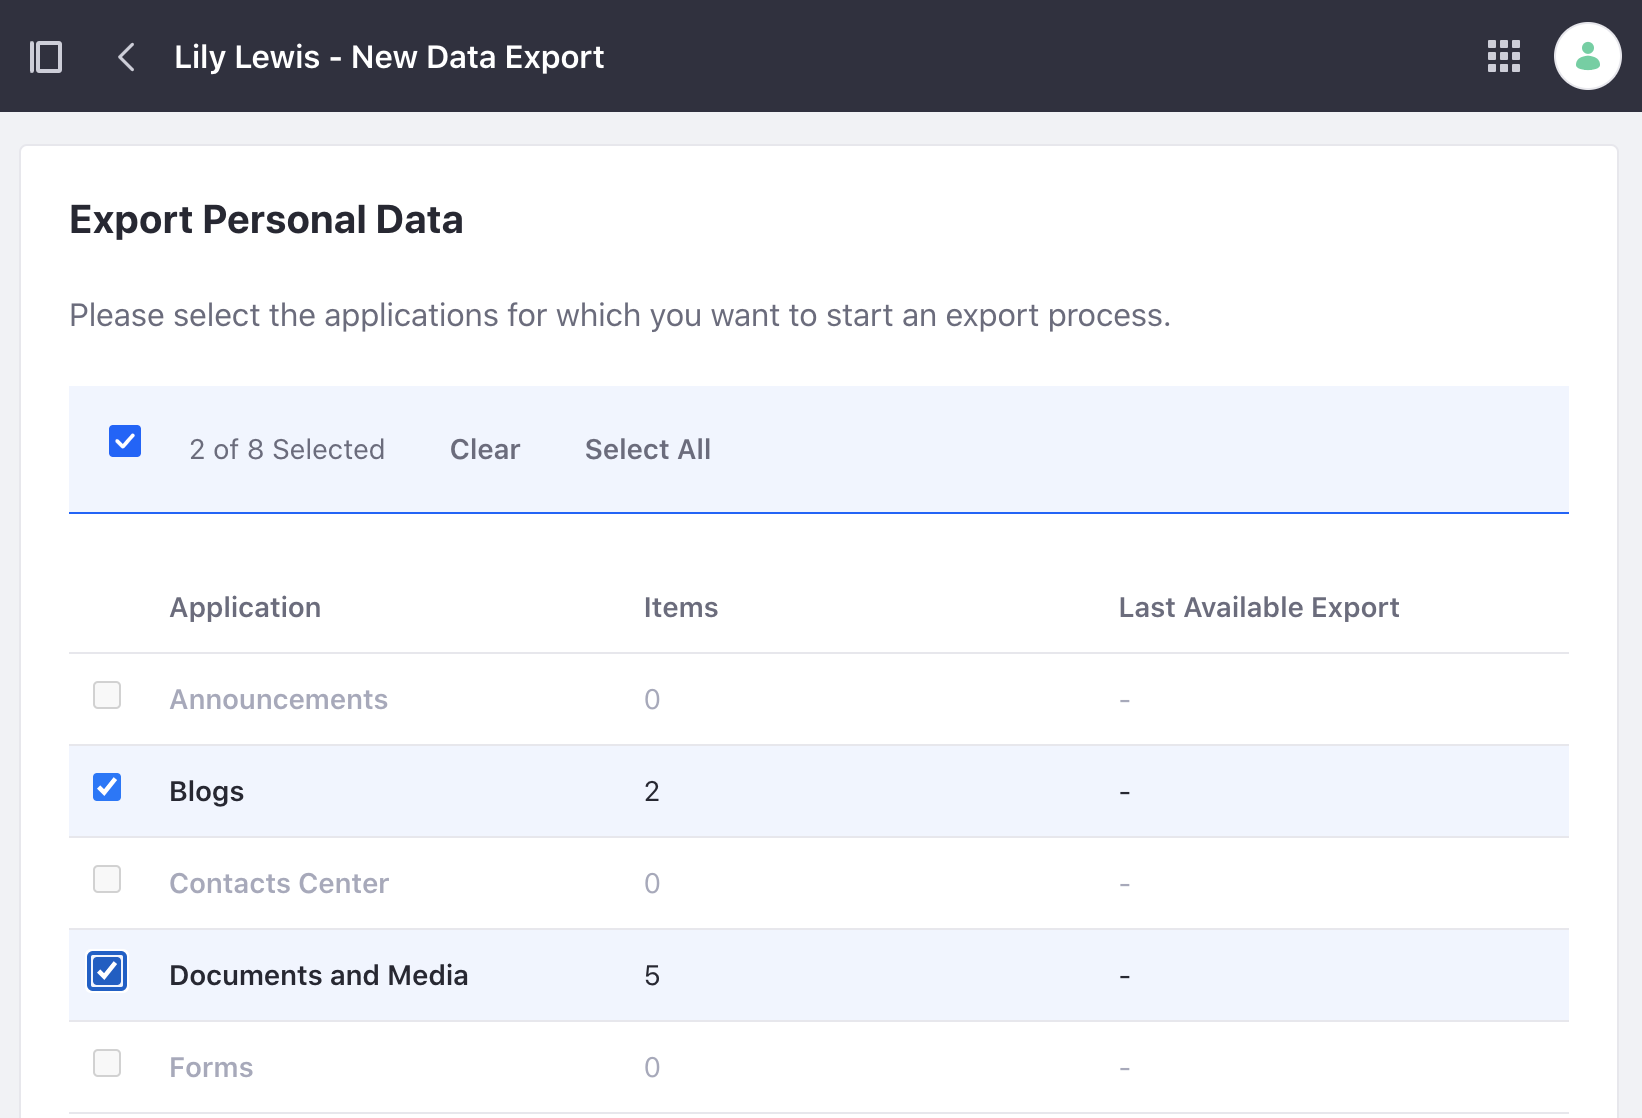
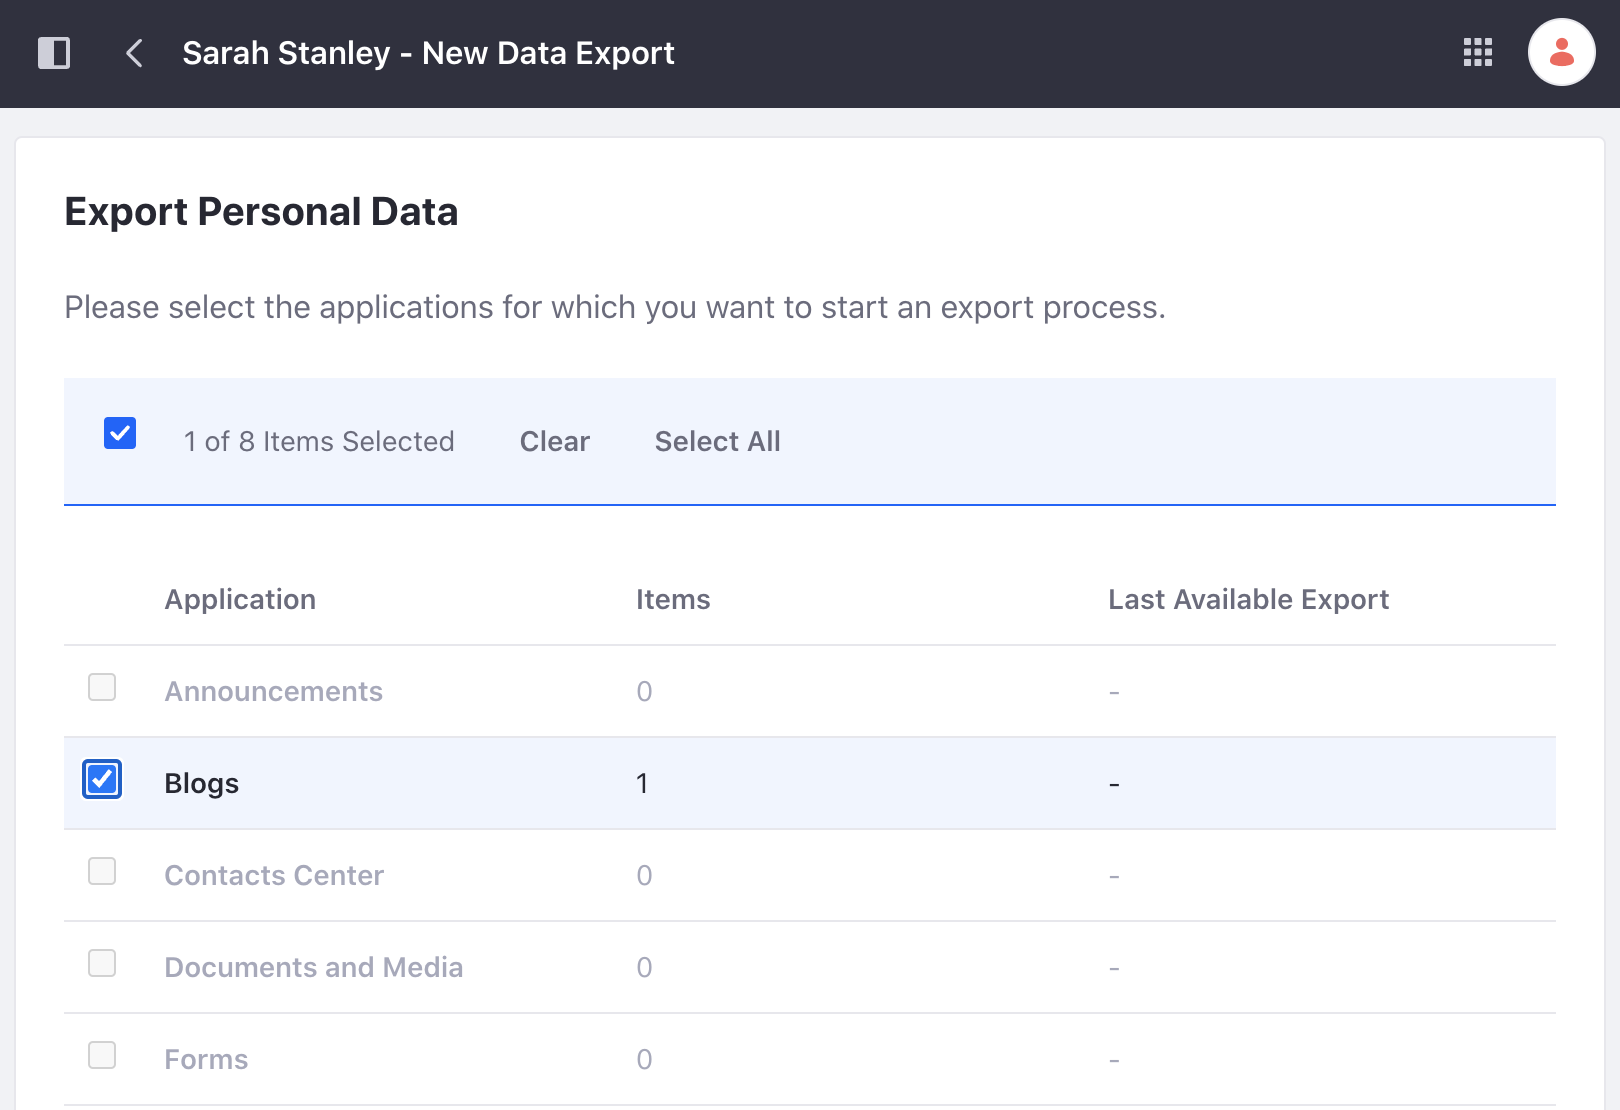
LRDOCS-11655 working with personal data

diff --git a/docs/courses/latest/en/liferay-administrator/user-data/understanding-gdpr.md b/docs/courses/latest/en/liferay-administrator/user-data/understanding-gdpr.md
@@ -5,33 +5,64 @@ uuid: 1793412f-135e-4ee3-bb27-a46e3383ff7c
 
 The Liferay user data tools can manage and delete personal user data. Though these tools are aimed at helping you with GDPR requirements, they do not guarantee compliance. See [managing user data](https://learn.liferay.com/dxp/latest/en/users-and-permissions/managing-user-data.html) to learn more.
 
+## Working with Personal Data
+
+Data such as blog posts, uploaded documents, message board replies, are some examples of content that may contain personal data of your users. Follow the steps below to see how this happens.
+
+1. Change the user authentication setting. Note, this is only for our learning and testing purposes.
+
+   * Navigate to _Global Menu_ (![Global Menu](../../images/icon-applications-menu.png)) &rarr; _Control Panel_ &rarr; _Instance Settings_.
+   * Under Platform, click _User Authentication_.
+   * Uncheck the box next to require strangers to verify their email address.
+   * Click _Save_.
+
+1. Give Sarah the administrator role.
+
+   * Navigate to _Global Menu_ (![Global Menu](../../images/icon-applications-menu.png)) &rarr; _Control Panel_ &rarr; _Users and Organizations_. Click _Sarah Stanley_.
+   * In the left navigation, click _Roles_.
+   * Next to Regular Roles, click _Select_.
+   * In the new window, click _Choose_ next to Administrator.
+   * Scroll down to the bottom and click _Save_.
+
+1. Login as Sarah Stanley and create a blog post.
+
+   * Click the user profile image in the top right and click _Sign Out_.
+   * Click _Sign In_ at the top right.
+   * Sign in with `sarah@almightysyrup.com` as the email address and `learn` as the password.
+   * Open the _Product Menu_ (![Product Menu](../../images/icon-product-menu.png)). Click _Blogs_ under _Content & Data_.
+   * Click _Add_ (![Add icon](../../images/icon-add.png)).
+   * Add the following entry. 
+     * Title: Foo
+     * Content: Bar 
+   * Click _Publish_.
+
+1. Log back in as the main administrator (i.e. Kyle Klein).
+
 ## Exporting User Data
 
-<!-- I'm not sure how we can do this exercise without the data already in the database. Do you have a step somewhere where this data got imported? -Rich -->
-
-You may need to export personal user data. For example, a former employee of Delectable Bonsai is requesting a copy of all her personal data. Follow the steps to export user data.
+You may need to export personal user data. For example, Sarah Stanley is requesting a copy of all her personal data. Follow the steps to export her user data.
 
 1. Navigate to _Global Menu_ (![Global Menu](../../images/icon-applications-menu.png)) &rarr; _Control Panel_ &rarr; _Users and Organizations_.
 
-2. Click _Options_ (![Options icon](../../images/icon-actions.png)) of the user to export data. Click _Export Personal Data_.
+1. Click _Options_ (![Options icon](../../images/icon-actions.png)) for Sarah Stanley. Click _Export Personal Data_.
 
-3. In the next page, click _Add_ (![Add icon](../../images/icon-add.png)) to start a new export process.
+1. In the next page, click _Add_ (![Add icon](../../images/icon-add.png)) to start a new export process.
 
-4. In the next page, select all items you wish to export. For example, select all personal data from blogs or documents and media. Click _Export_ after making your selection.
+1. In the next page, select all items you wish to export. For example, select all personal data from blogs. Click _Export_ after making your selection.
 
    ![Select the items you wish to export.](./understanding-gdpr/images/01.png)
 
-5. The next page shows an export process for each category of personal data. To download, click _Options_ (![Options icon](../../images/icon-actions.png)) and select _Download_. The personal user data is downloaded to your machine.
+1. The next page shows an export process for each category of personal data. To download, click _Options_ (![Options icon](../../images/icon-actions.png)) and select _Download_. The personal user data is downloaded to your machine.
 
 ## Anonymizing User Data
 
-Choose to anonymize personal data if you have a want to keep existing content. For example, you want to keep blog posts of former employees without their personal data. Follow the steps to anonymize data.
+Choose to anonymize personal data if you want to keep existing content on your site. For example, you want to keep blog posts of former employees without their personal data. Follow the steps to anonymize data.
 
 1. Navigate to _Global Menu_ (![Global Menu](../../images/icon-applications-menu.png)) &rarr; _Control Panel_ &rarr; _Users and Organizations_.
 
-1. Click _Options_ (![Options icon](../../images/icon-actions.png)) of the user to anonymize. Click _Delete Personal Data_. Click _OK_ in the pop-up window explaining that the user must first be deactivated.
+1. Click _Options_ (![Options icon](../../images/icon-actions.png)) for Sarah Stanley. Click _Delete Personal Data_. Click _OK_ in the pop-up window explaining that the user must first be deactivated.
 
-1. The next page shows all personal data associated with the user. Select each category you wish to anonymize (e.g. Select blogs or documents and media).
+1. The next page shows all personal data associated with the user. Select each category you wish to anonymize (e.g. Select blogs).
 
    ![Select each category of data to anonymize.](./understanding-gdpr/images/02.png)
 
@@ -45,11 +76,13 @@ Finally, you can choose to delete personal data completely. This option deletes 
 
 1. Navigate to _Global Menu_ (![Global Menu](../../images/icon-applications-menu.png)) &rarr; _Control Panel_ &rarr; _Users and Organizations_.
 
-2. Click _Options_ (![Options icon](../../images/icon-actions.png)) of the user to delete. Click _Delete Personal Data_. Click _OK_ in the pop-up window explaining that the user must first be deactivated.
+1. Click _Options_ (![Options icon](../../images/icon-actions.png)) of the user to delete. Click _Delete Personal Data_. Click _OK_ in the pop-up window explaining that the user must first be deactivated.
 
-3. The next page shows all personal data associated with the user. Select each category you wish to delete (e.g. Select message boards).
+1. The next page shows all personal data associated with the user. Select each category you wish to delete (e.g. Select message boards).
 
-4. Click _Options_ (![Options icon](../../images/icon-actions.png)) for either all selected or for each category and click _Delete_. Click _OK_ in the pop-up window. Any existing content was generated by the user has now been deleted.
+1. Click _Options_ (![Options icon](../../images/icon-actions.png)) for either all selected or for each category and click _Delete_. Click _OK_ in the pop-up window. Any existing content was generated by the user has now been deleted.
+
+Congratulations! You have completed this module on user data.
 
 ## Relevant Concepts
 
